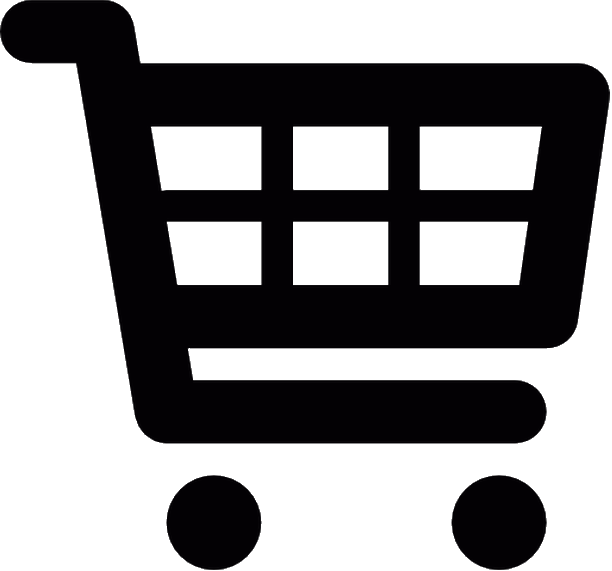
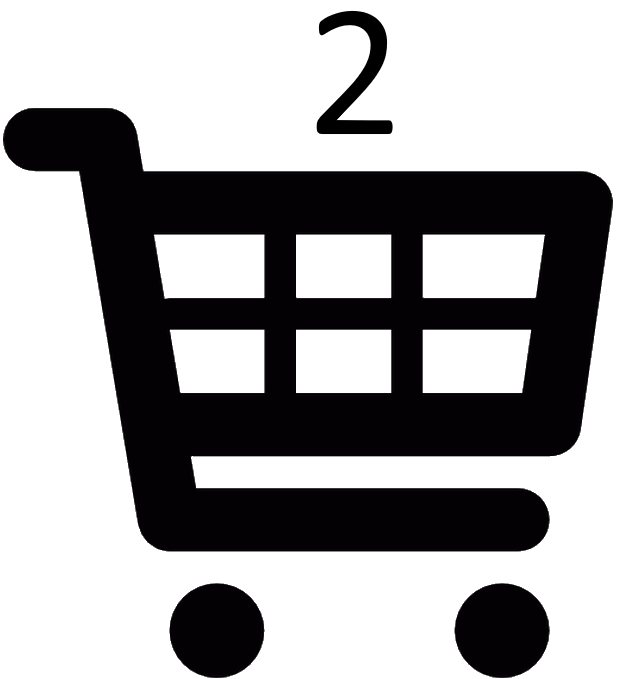
small update
put number on cart and changed add button to enroll

diff --git a/src/TopBarController.java b/src/TopBarController.java
@@ -4,9 +4,7 @@ import javafx.fxml.Initializable;
 import javafx.scene.Node;
 import javafx.scene.Parent;
 import javafx.scene.Scene;
-import javafx.scene.control.ComboBox;
-import javafx.scene.control.Label;
-import javafx.scene.control.TextField;
+import javafx.scene.control.*;
 import javafx.scene.image.ImageView;
 import javafx.scene.input.MouseEvent;
 import javafx.stage.Stage;
@@ -29,10 +27,14 @@ public class TopBarController implements Initializable {
     @FXML private Label instructorLabel;
     @FXML Controller mainController;
 
+    @FXML private ContextMenu contextMenu;
+
+
     public void injectMainController(Controller controller)
     {
         this.mainController = controller;
     }
+
     @Override
     public void initialize(URL url, ResourceBundle rb) {
         subjectBox.getItems().addAll("CS", "ENG", "MAT");
@@ -40,12 +42,20 @@ public class TopBarController implements Initializable {
         numberBox.getItems().addAll("2400", "3310", "4800");
 
         instructorBox.getItems().addAll("B. Steichen", "is", "awesome");
+
+        contextMenu = new ContextMenu();
+
+        // create menuitems
+        CheckMenuItem menuItem1 = new CheckMenuItem("CS 2400 (12345)");
+        CheckMenuItem menuItem2 = new CheckMenuItem("CS 4800 (23456)");
+
+        // add menu items to menu
+        contextMenu.getItems().add(menuItem1);
+        contextMenu.getItems().add(menuItem2);
     }
 
     public void searchButtonPushed(MouseEvent event) throws IOException
     {
-        /*FXMLLoader loader = FXMLLoader.load(getClass().getResource("SearchResults.fxml"));
-        searchBar.getScene().setRoot(loader.getRoot());*/
         Parent tableViewParent = FXMLLoader.load(getClass().getResource("SearchResults.fxml"));
         Scene tableViewScene = new Scene(tableViewParent);
 
@@ -71,5 +81,15 @@ public class TopBarController implements Initializable {
     public void cartButtonPushed(MouseEvent event) throws IOException
     {
 
+    }
+
+    public void cartButtonHover(MouseEvent event) throws IOException
+    {
+        contextMenu.show(cart, event.getScreenX(), event.getScreenY());
+    }
+
+    public void cartButtonHoverOff(MouseEvent event) throws IOException
+    {
+        contextMenu.hide();
     }
 }

diff --git a/src/FilterBarController.java b/src/FilterBarController.java
@@ -12,7 +12,9 @@ public class FilterBarController implements Initializable {
     @Override
     public void initialize(URL url, ResourceBundle rb) {
         timeBox0.getItems().addAll("AM", "PM");
+        timeBox0.getSelectionModel().select(0);
 
         timeBox1.getItems().addAll("AM", "PM");
+        timeBox1.getSelectionModel().select(1);
     }
 }
